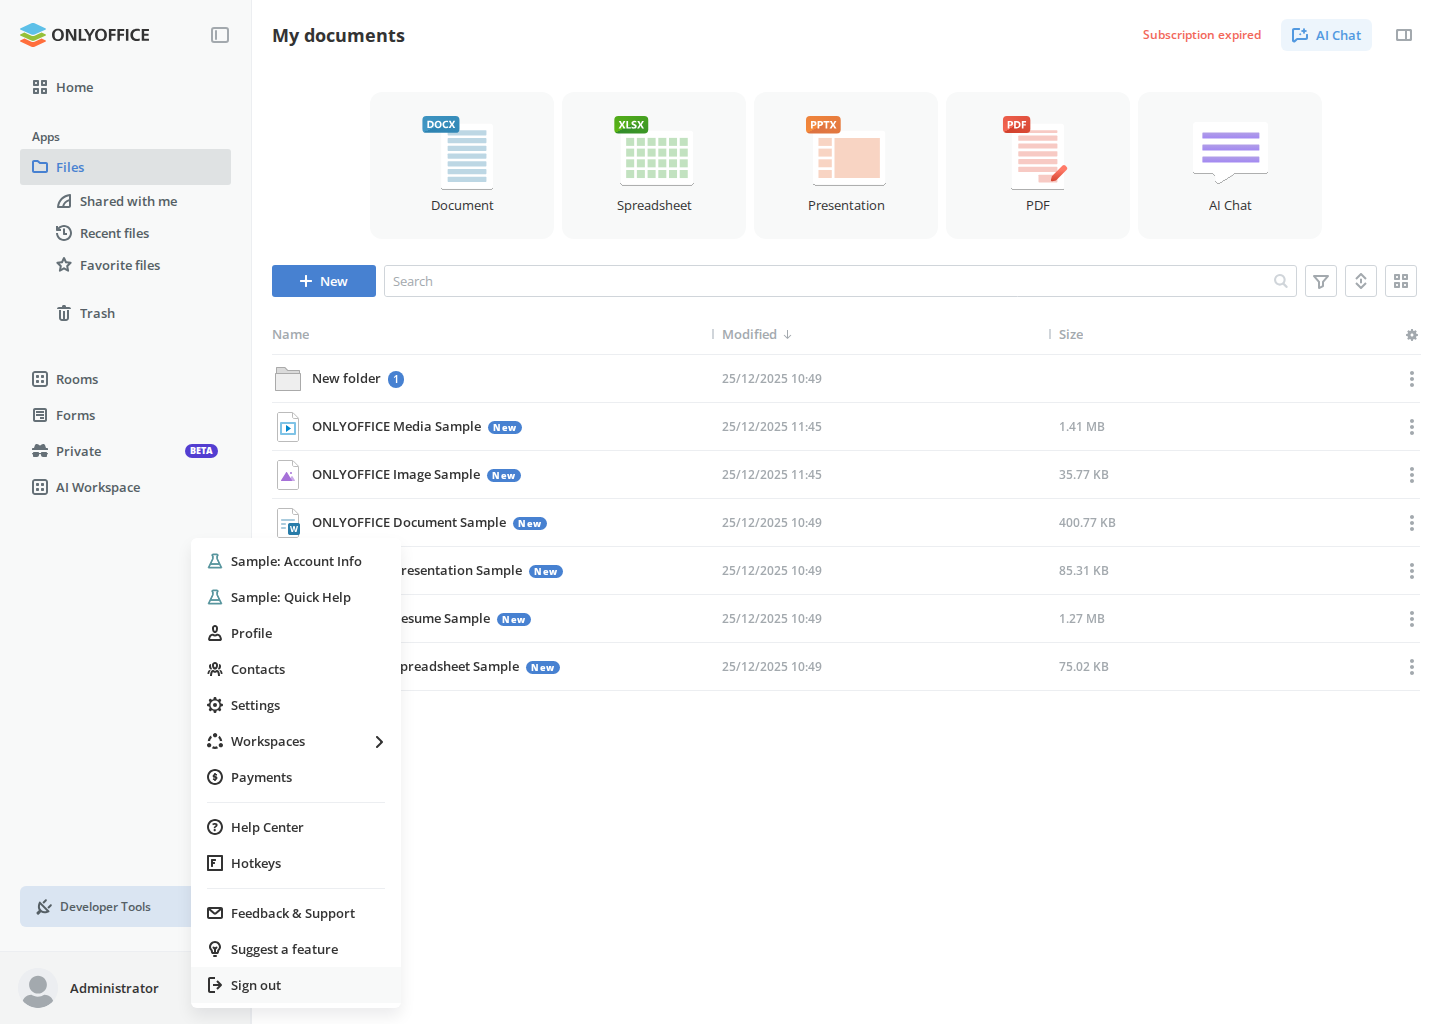
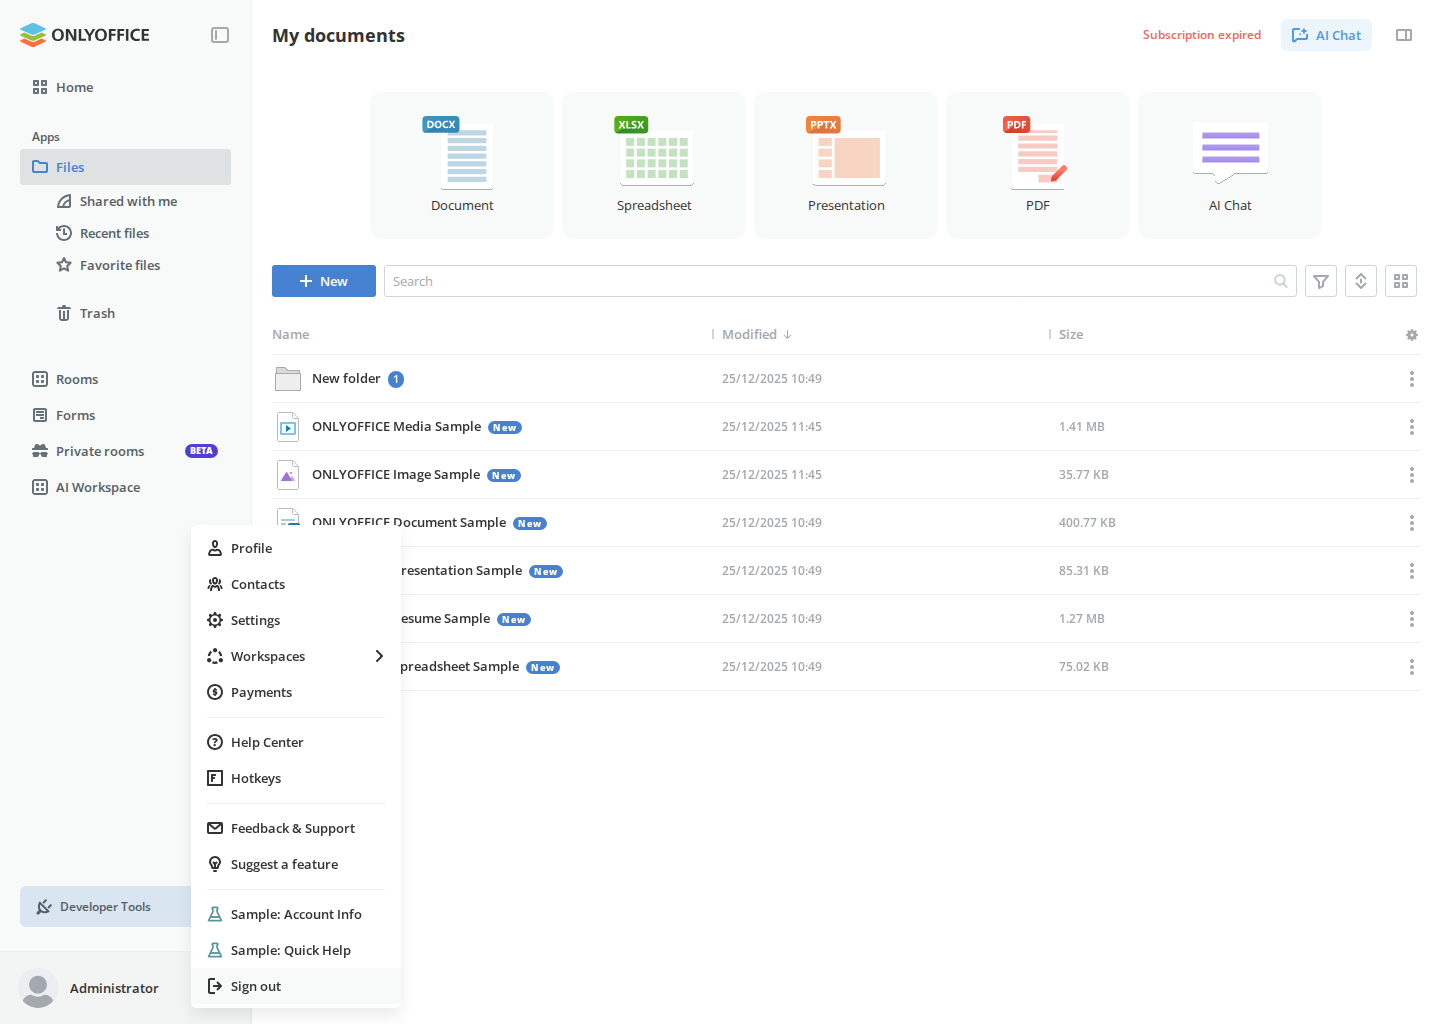
Client: Plugins: put plugin entries of the profile menu in a block above the support entries

diff --git a/packages/client/src/store/utils/__tests__/profileMenu.test.ts b/packages/client/src/store/utils/__tests__/profileMenu.test.ts
@@ -1,0 +1,131 @@
+/*
+ * Copyright (C) Ascensio System SIA, 2009-2026
+ *
+ * This program is a free software product. You can redistribute it and/or
+ * modify it under the terms of the GNU Affero General Public License (AGPL)
+ * version 3 as published by the Free Software Foundation, together with the
+ * additional terms provided in the LICENSE file.
+ *
+ * This program is distributed WITHOUT ANY WARRANTY; without even the implied
+ * warranty of MERCHANTABILITY or FITNESS FOR A PARTICULAR PURPOSE. For
+ * details, see the GNU AGPL at: https://www.gnu.org/licenses/agpl-3.0.html
+ *
+ * You can contact Ascensio System SIA by email at info@onlyoffice.com
+ * or by postal mail at 20A-6 Ernesta Birznieka-Upisha Street, Riga,
+ * LV-1050, Latvia, European Union.
+ *
+ * The interactive user interfaces in modified versions of the Program
+ * are required to display Appropriate Legal Notices in accordance with
+ * Section 5 of the GNU AGPL version 3.
+ *
+ * No trademark rights are granted under this License.
+ *
+ * All non-code elements of the Product, including illustrations,
+ * icon sets, and technical writing content, are licensed under the
+ * Creative Commons Attribution-ShareAlike 4.0 International License:
+ * https://creativecommons.org/licenses/by-sa/4.0/legalcode
+ *
+ * This license applies only to such non-code elements and does not
+ * modify or replace the licensing terms applicable to the Program's
+ * source code, which remains licensed under the GNU Affero General
+ * Public License v3.
+ *
+ * SPDX-License-Identifier: AGPL-3.0-only
+ */
+
+import { describe, it, expect } from "vitest";
+
+import {
+  groupProfilePluginItems,
+  placeProfilePluginItems,
+} from "../profileMenu";
+
+type TEntry = { key: string; isSeparator?: boolean; items?: TEntry[] };
+
+const separators: [TEntry, TEntry] = [
+  { key: "separator-plugins", isSeparator: true },
+  { key: "separator-after-plugins", isSeparator: true },
+];
+const options = { beforeKeys: ["chat", "about"], endKey: "logout" };
+const keys = (entries: TEntry[]) => entries.map(({ key }) => key);
+const entries = (...names: string[]): TEntry[] =>
+  names.map((key) =>
+    key.startsWith("s") && key.length === 2 ? { key, isSeparator: true } : { key },
+  );
+
+const place = (actions: TEntry[], plugins: string[]) =>
+  keys(placeProfilePluginItems(actions, entries(...plugins), separators, options));
+
+describe("placeProfilePluginItems", () => {
+  it("leaves the menu alone when no plugin adds an item", () => {
+    const actions = entries("profile", "logout");
+
+    expect(placeProfilePluginItems(actions, [], separators, options)).toBe(actions);
+  });
+
+  it("puts the plugin block above the chat block, with a separator on either side", () => {
+    expect(place(entries("profile", "s1", "help", "chat", "about", "logout"), ["mcp", "crm"])).toEqual([
+      "profile",
+      "s1",
+      "help",
+      "separator-plugins",
+      "mcp",
+      "crm",
+      "separator-after-plugins",
+      "chat",
+      "about",
+      "logout",
+    ]);
+  });
+
+  it("reuses the separator that already closes the block above", () => {
+    expect(place(entries("help", "s2", "chat", "logout"), ["mcp"])).toEqual([
+      "help",
+      "s2",
+      "mcp",
+      "separator-after-plugins",
+      "chat",
+      "logout",
+    ]);
+  });
+
+  it("starts at the first item of the chat block that is shown", () => {
+    expect(place(entries("help", "s2", "about", "logout"), ["mcp"])).toEqual([
+      "help",
+      "s2",
+      "mcp",
+      "separator-after-plugins",
+      "about",
+      "logout",
+    ]);
+  });
+
+  it("goes right above sign out, without a separator there, when the chat block is empty", () => {
+    expect(place(entries("help", "s2", "logout"), ["mcp"])).toEqual(["help", "s2", "mcp", "logout"]);
+  });
+
+  it("ends the menu when there is neither a chat block nor sign out", () => {
+    expect(place(entries("profile", "help"), ["mcp"])).toEqual([
+      "profile",
+      "help",
+      "separator-plugins",
+      "mcp",
+    ]);
+  });
+});
+
+describe("groupProfilePluginItems", () => {
+  const toSubmenu = (items: TEntry[]): TEntry => ({ key: "more-options", items });
+
+  it("keeps up to two plugin items in the menu itself", () => {
+    expect(keys(groupProfilePluginItems(entries("mcp"), toSubmenu))).toEqual(["mcp"]);
+    expect(keys(groupProfilePluginItems(entries("mcp", "crm"), toSubmenu))).toEqual(["mcp", "crm"]);
+  });
+
+  it("moves three and more into one submenu, in their order", () => {
+    const grouped = groupProfilePluginItems(entries("mcp", "crm", "wiki"), toSubmenu);
+
+    expect(keys(grouped)).toEqual(["more-options"]);
+    expect(keys(grouped[0].items ?? [])).toEqual(["mcp", "crm", "wiki"]);
+  });
+});

diff --git a/packages/client/src/store/ProfileActionsStore.tsx b/packages/client/src/store/ProfileActionsStore.tsx
@@ -48,6 +48,7 @@ import SpacesReactSvgUrl from "PUBLIC_DIR/images/spaces.react.svg?url";
 import LampReactSvgUrl from "PUBLIC_DIR/images/lamp.react.svg?url";
 import CatalogAccountsReactSvgUrl from "PUBLIC_DIR/images/icons/16/catalog.accounts.react.svg?url";
 import AppsGridReactSvgUrl from "PUBLIC_DIR/images/icons/16/apps-grid.react.svg?url";
+import DotsHorizontalUrl from "PUBLIC_DIR/images/icons/16/dots-horizontal.react.svg?url";
 
 import type {
   ComponentType,
@@ -84,6 +85,10 @@ import {
   getPersistedString,
   setPersistedString,
 } from "./utils/persistence";
+import {
+  groupProfilePluginItems,
+  placeProfilePluginItems,
+} from "./utils/profileMenu";
 import { toastr } from "@onlyoffice/apps-ui-kit/components/toast";
 import { isDesktop, isTablet } from "@docspace/shared/utils";
 import { openingNewTab } from "@docspace/shared/utils/openingNewTab";
@@ -676,23 +681,46 @@ class ProfileActionsStore {
       });
     }
 
-    if (this.pluginStore.profileMenuItemsList && enablePlugins) {
-      actions.unshift(
-        ...this.pluginStore.profileMenuItemsList.map((option) => ({
-          key: option.key,
-          // The Omit<> cast is type-only: at runtime the spread still carries
-          // option.value.key which overwrites option.key, exactly as before
-          // (it silences TS2783 "key is specified more than once").
-          ...(option.value as Omit<IProfileMenuItemClient, "key">),
-        })),
-      );
-    }
+    const pluginActions: TProfileAction[] =
+      this.pluginStore.profileMenuItemsList && enablePlugins
+        ? this.pluginStore.profileMenuItemsList.map((option) => ({
+            key: option.key,
+            // The Omit<> cast is type-only: at runtime the spread still carries
+            // option.value.key which overwrites option.key, exactly as before
+            // (it silences TS2783 "key is specified more than once").
+            ...(option.value as Omit<IProfileMenuItemClient, "key">),
+          }))
+        : [];
 
     // the returned items carry extra DropDownItem-only fields
     // (additionalElement, isButton, isPortal) and `items` may be null, which
     // ContextMenuType does not model — the cast preserves the old JS contract
     // expected by ArticleProfileProps.getActions.
-    return actions.filter(Boolean) as ContextMenuModel[];
+    const pluginBlock = groupProfilePluginItems(pluginActions, (items) => ({
+      key: "user-menu-plugins",
+      icon: DotsHorizontalUrl,
+      label: t("Common:MoreOptions"),
+      items,
+    }));
+
+    return placeProfilePluginItems(
+      actions.filter((action): action is TProfileAction => !!action),
+      pluginBlock,
+      [
+        { key: "separator-plugins", isSeparator: true },
+        { key: "separator-after-plugins", isSeparator: true },
+      ],
+      {
+        beforeKeys: [
+          "user-menu-live-chat",
+          "user-menu-support",
+          "user-menu-suggest-feature",
+          "user-menu-book-training",
+          "user-menu-about",
+        ],
+        endKey: "user-menu-logout",
+      },
+    ) as ContextMenuModel[];
   };
 
   checkUrlActions = () => {

diff --git a/packages/client/src/store/utils/profileMenu.ts b/packages/client/src/store/utils/profileMenu.ts
@@ -1,0 +1,74 @@
+/*
+ * Copyright (C) Ascensio System SIA, 2009-2026
+ *
+ * This program is a free software product. You can redistribute it and/or
+ * modify it under the terms of the GNU Affero General Public License (AGPL)
+ * version 3 as published by the Free Software Foundation, together with the
+ * additional terms provided in the LICENSE file.
+ *
+ * This program is distributed WITHOUT ANY WARRANTY; without even the implied
+ * warranty of MERCHANTABILITY or FITNESS FOR A PARTICULAR PURPOSE. For
+ * details, see the GNU AGPL at: https://www.gnu.org/licenses/agpl-3.0.html
+ *
+ * You can contact Ascensio System SIA by email at info@onlyoffice.com
+ * or by postal mail at 20A-6 Ernesta Birznieka-Upisha Street, Riga,
+ * LV-1050, Latvia, European Union.
+ *
+ * The interactive user interfaces in modified versions of the Program
+ * are required to display Appropriate Legal Notices in accordance with
+ * Section 5 of the GNU AGPL version 3.
+ *
+ * No trademark rights are granted under this License.
+ *
+ * All non-code elements of the Product, including illustrations,
+ * icon sets, and technical writing content, are licensed under the
+ * Creative Commons Attribution-ShareAlike 4.0 International License:
+ * https://creativecommons.org/licenses/by-sa/4.0/legalcode
+ *
+ * This license applies only to such non-code elements and does not
+ * modify or replace the licensing terms applicable to the Program's
+ * source code, which remains licensed under the GNU Affero General
+ * Public License v3.
+ *
+ * SPDX-License-Identifier: AGPL-3.0-only
+ */
+
+type TMenuEntry = { key?: string | number; isSeparator?: boolean };
+
+const MAX_PLUGIN_ITEMS_IN_MENU = 2;
+
+export const groupProfilePluginItems = <T extends TMenuEntry>(
+  items: T[],
+  toSubmenu: (items: T[]) => T,
+): T[] =>
+  items.length > MAX_PLUGIN_ITEMS_IN_MENU ? [toSubmenu(items)] : items;
+
+export const placeProfilePluginItems = <T extends TMenuEntry>(
+  actions: T[],
+  pluginItems: T[],
+  separators: [before: T, after: T],
+  { beforeKeys, endKey }: { beforeKeys: string[]; endKey: string },
+): T[] => {
+  if (pluginItems.length === 0) return actions;
+
+  const indexOf = (keys: string[]) =>
+    actions.findIndex(({ key }) => keys.includes(String(key)));
+
+  const anchor = [indexOf(beforeKeys), indexOf([endKey])].find(
+    (index) => index !== -1,
+  );
+  const insertAt = anchor ?? actions.length;
+  const before = actions.slice(0, insertAt);
+  const after = actions.slice(insertAt);
+  const separatorBefore = before.length > 0 && !before.at(-1)?.isSeparator;
+  const separatorAfter =
+    after.length > 0 && !after[0].isSeparator && after[0].key !== endKey;
+
+  return [
+    ...before,
+    ...(separatorBefore ? [separators[0]] : []),
+    ...pluginItems,
+    ...(separatorAfter ? [separators[1]] : []),
+    ...after,
+  ];
+};

diff --git a/packages/client/__tests__/plugins/profile-menu.spec.ts b/packages/client/__tests__/plugins/profile-menu.spec.ts
@@ -89,6 +89,31 @@ test.describe("Profile Menu Sample Plugin", () => {
     await expect(accountInfoItem).toBeVisible();
     await expect(quickHelpItem).toBeVisible();
 
+    const menuOrder = await page.evaluate((ids) => {
+      const found = [...document.querySelectorAll("[data-testid]")]
+        .map((element) => element.getAttribute("data-testid"))
+        .filter((id): id is string => !!id && ids.includes(id));
+
+      return [...new Set(found)];
+    }, [
+      "user-menu-profile",
+      "user-menu-hotkeys",
+      "profile-menu-sample-account-info",
+      "profile-menu-sample-quick-help",
+      "user-menu-support",
+      "user-menu-logout",
+    ]);
+
+    // Plugin items get a block of their own, above the chat and support block.
+    expect(menuOrder).toEqual([
+      "user-menu-profile",
+      "user-menu-hotkeys",
+      "profile-menu-sample-account-info",
+      "profile-menu-sample-quick-help",
+      "user-menu-support",
+      "user-menu-logout",
+    ]);
+
     await expectScreenshot(page, [
       "desktop",
       "plugins-profile-menu",
